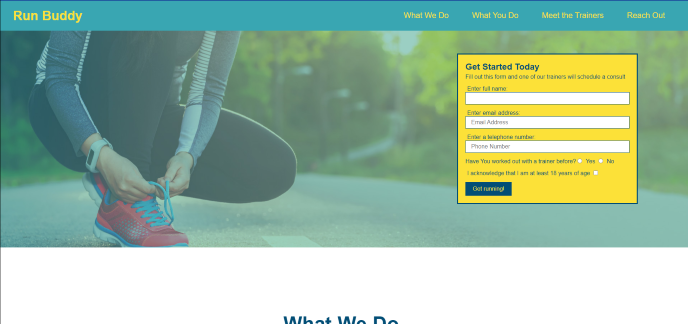
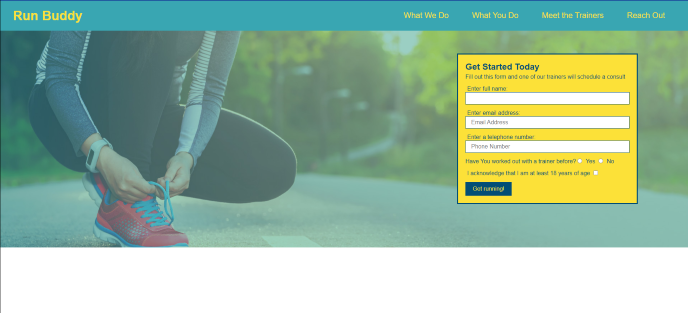
fixed footer, realized it was attached to section above. fixing body

diff --git a/index.html b/index.html
@@ -45,50 +45,49 @@
 
         <!-- about-the-author -->
 
-        <section id="about-the-author" class="about-the-author">
-            <h2>About Me
-                <p>
-                Pivotal currently is working on coding. He spent many years working in retail and has a vast knowledge
-                of market movements. With this knowledge, he is continuing his education in becoming a code developer.
-                By the end of 2022, Pivotal Saint will be a full stack web-developer.
+        <header id="about-the-author">
+            <section class="about-the-author"> About The Author
+                <p class="bio">
+                    Pivotal currently is working on coding. He spent many years working in retail and has a vast
+                    knowledge
+                    of market movements. With this knowledge, he is continuing his education in becoming a code
+                    developer.
+                    By the end of 2022, Pivotal Saint will be a full stack web-developer.
                 </p>
-                <aside class="headshot">
+                <div class="headshot">
                     <img src="./assets/images/headshot-image.jpg" alt="">
-                </aside>
-            </h2>
+                </div>
+            </section>
 
-        </section>
+        </header>
 
         <!-- portfolio-work -->
-        <section id="portfolio-work" class="portfolio-work">
-            <h>Portfolio Projects</h3>
-            <div class="bigger-project">
-                <h4>Pivotal's Website</h4>
+        <section id="portfolio-work">
+            <section class="project-header">
+                <h2>PORTFOLIO PROJECTS</h2>
+            <article class="bigger-project">
                 <img src="./assets/images/pivotal-saint-image.png" alt="" />
-            </div>
+            </article>
 
             <div class="smaller-project">
-                <h4>Pivotal's Rarible</h4>
                 <img class="smallimages" src="./assets/images/rarible-image.png" alt="">
 
             </div>
 
             <div class="smaller-project">
-                <h4>Pivotal's Soundcloud</h4>
                 <img class="smallimages" src="./assets/images/soundcloud-image.png" alt="">
 
             </div>
 
             <div class="smaller-project">
-                <h4>Horiseon Project</h4>
                 <img class="smallimages" src="./assets/images/horiseon-image.png" alt="">
 
             </div>
 
             <div class="smaller-project">
-                <h4>Run-Buddy Project</h4>
                 <img class="smallimages" src="./assets/images/run-buddy-image.png" alt="">
             </div>
+        </section>
 
             <!-- contact information -->
             <footer id="contact-pivotal" class="footer">
@@ -102,7 +101,6 @@
                 </h1>
             </footer>
             <!--contact pivotal end-->
-        </section>
     </main>
 </body>
 

diff --git a/assets/css/style.css b/assets/css/style.css
@@ -99,22 +99,30 @@ p {
 }
 
 .about-the-author {
-    display: inline-flex;
-    border: solid;
-    flex-wrap: wrap;
+    display: inline-block;
     border: solid;
     border-width: 6px;
     width: 100%;
-    padding: 2px;
+    padding: 4px;
     background-color: lightseagreen;
 }
 
+.bio {
+    display: inline-flex;
+    flex-wrap: wrap;
+    display: inline;
+}
+
 .headshot {
-    flex: 1;
+    display: flex;
     flex-wrap: wrap;
 }
 
-
+.project-header {
+    display: inline-block;
+    position: center;
+    font-size: 36px;
+}
 
 .portfolio-work {
     margin: 0;
@@ -123,7 +131,14 @@ p {
     border-width: 6px;
     flex-wrap: wrap;
     flex-direction: row;
-    justify-content: center space-around space-evenly; 
+    justify-content: space-around; 
+}
+
+.bigger-project {
+    flex: wrap;
+    flex-wrap: wrap;
+    flex: 1;
+
 }
 
 .smaller-project {
@@ -131,7 +146,9 @@ p {
     flex-wrap: wrap;
     width: 400px;
     height: 400px;
+    padding: 10px 10px 10px 10px;
     border: 2px black solid;
+    background-color: black;
 }
 
 .smallimages {
@@ -140,7 +157,7 @@ p {
 }
 
 .footer {
-    position: absolute center;
+    position: center;
     background: lightseagreen;
     width: 100%;
     margin: 0;
@@ -157,10 +174,6 @@ p {
 
 .footer p {
     flex: 1;
-}
-
-.email {
-
 }
 
 .footer h1 {
